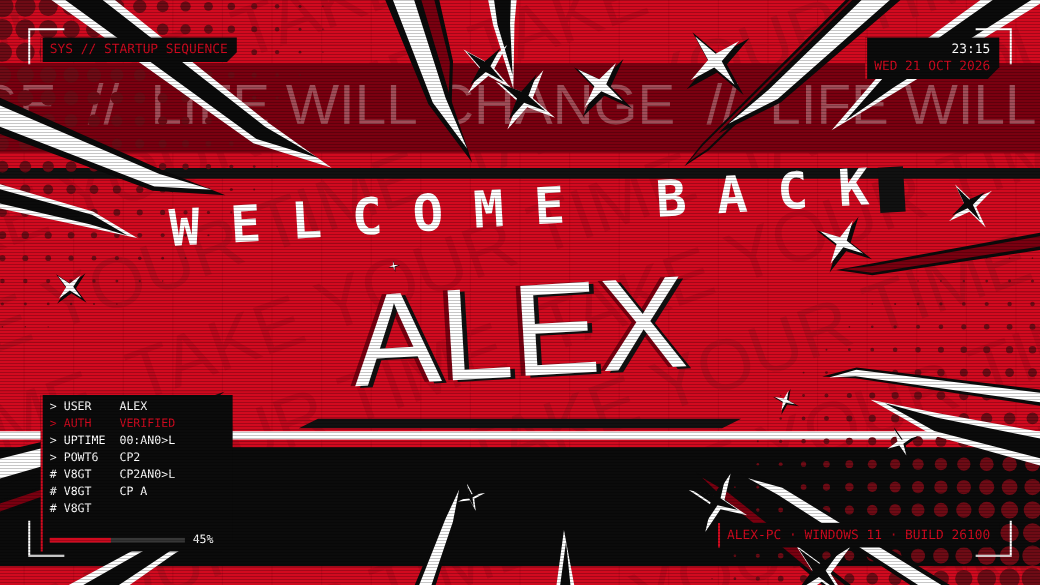
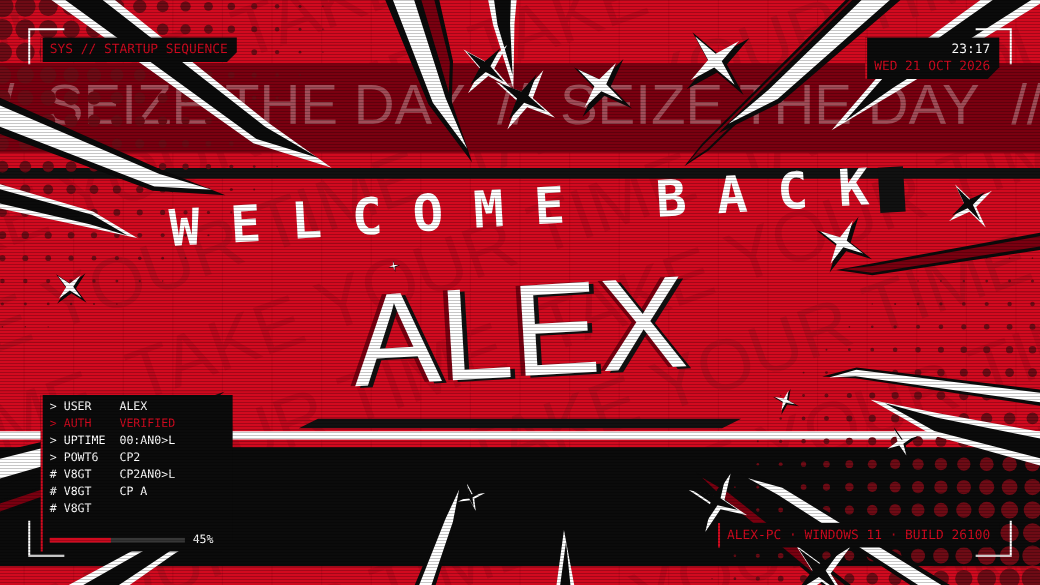
Persona 5 band now reads SEIZE THE DAY
Claude-Session: https://claude.ai/code/session_01RKLJ1fjdyNNufetyXFLTLW

Changed region(s): [[0.2154, 0.1231, 0.7385, 0.2154], [0.7385, 0.1231, 1.0, 0.2154], [0.0, 0.1231, 0.2154, 0.2154]]

diff --git a/preview/index.html b/preview/index.html
@@ -211,7 +211,7 @@
     C = mode === "dark" ? DARK_HOUR : mode === "p5" ? P5 : NORMAL;
     line1 = greeting();
     bgTicker = mode === "p5" ? "TAKE YOUR TIME  " : "BURN MY DREAD  ";
-    bandText = (mode === "dark" ? "MEMENTO MORI" : mode === "p5" ? "LIFE WILL CHANGE" : PHRASES[Math.floor(Math.random() * PHRASES.length)]) + "  //  ";
+    bandText = (mode === "dark" ? "MEMENTO MORI" : mode === "p5" ? "SEIZE THE DAY" : PHRASES[Math.floor(Math.random() * PHRASES.length)]) + "  //  ";
     readout = [
       ["USER", "ALEX"], ["AUTH", "VERIFIED"], ["UPTIME", EXAMPLE.uptime],
       ["POWER", EXAMPLE.power], ["MODE", EXAMPLE.perf], ["DISK", EXAMPLE.disk], ["SESSION", mode === "dark" ? "DARK HOUR" : mode === "p5" ? "SHOWTIME" : "STARTING"],
